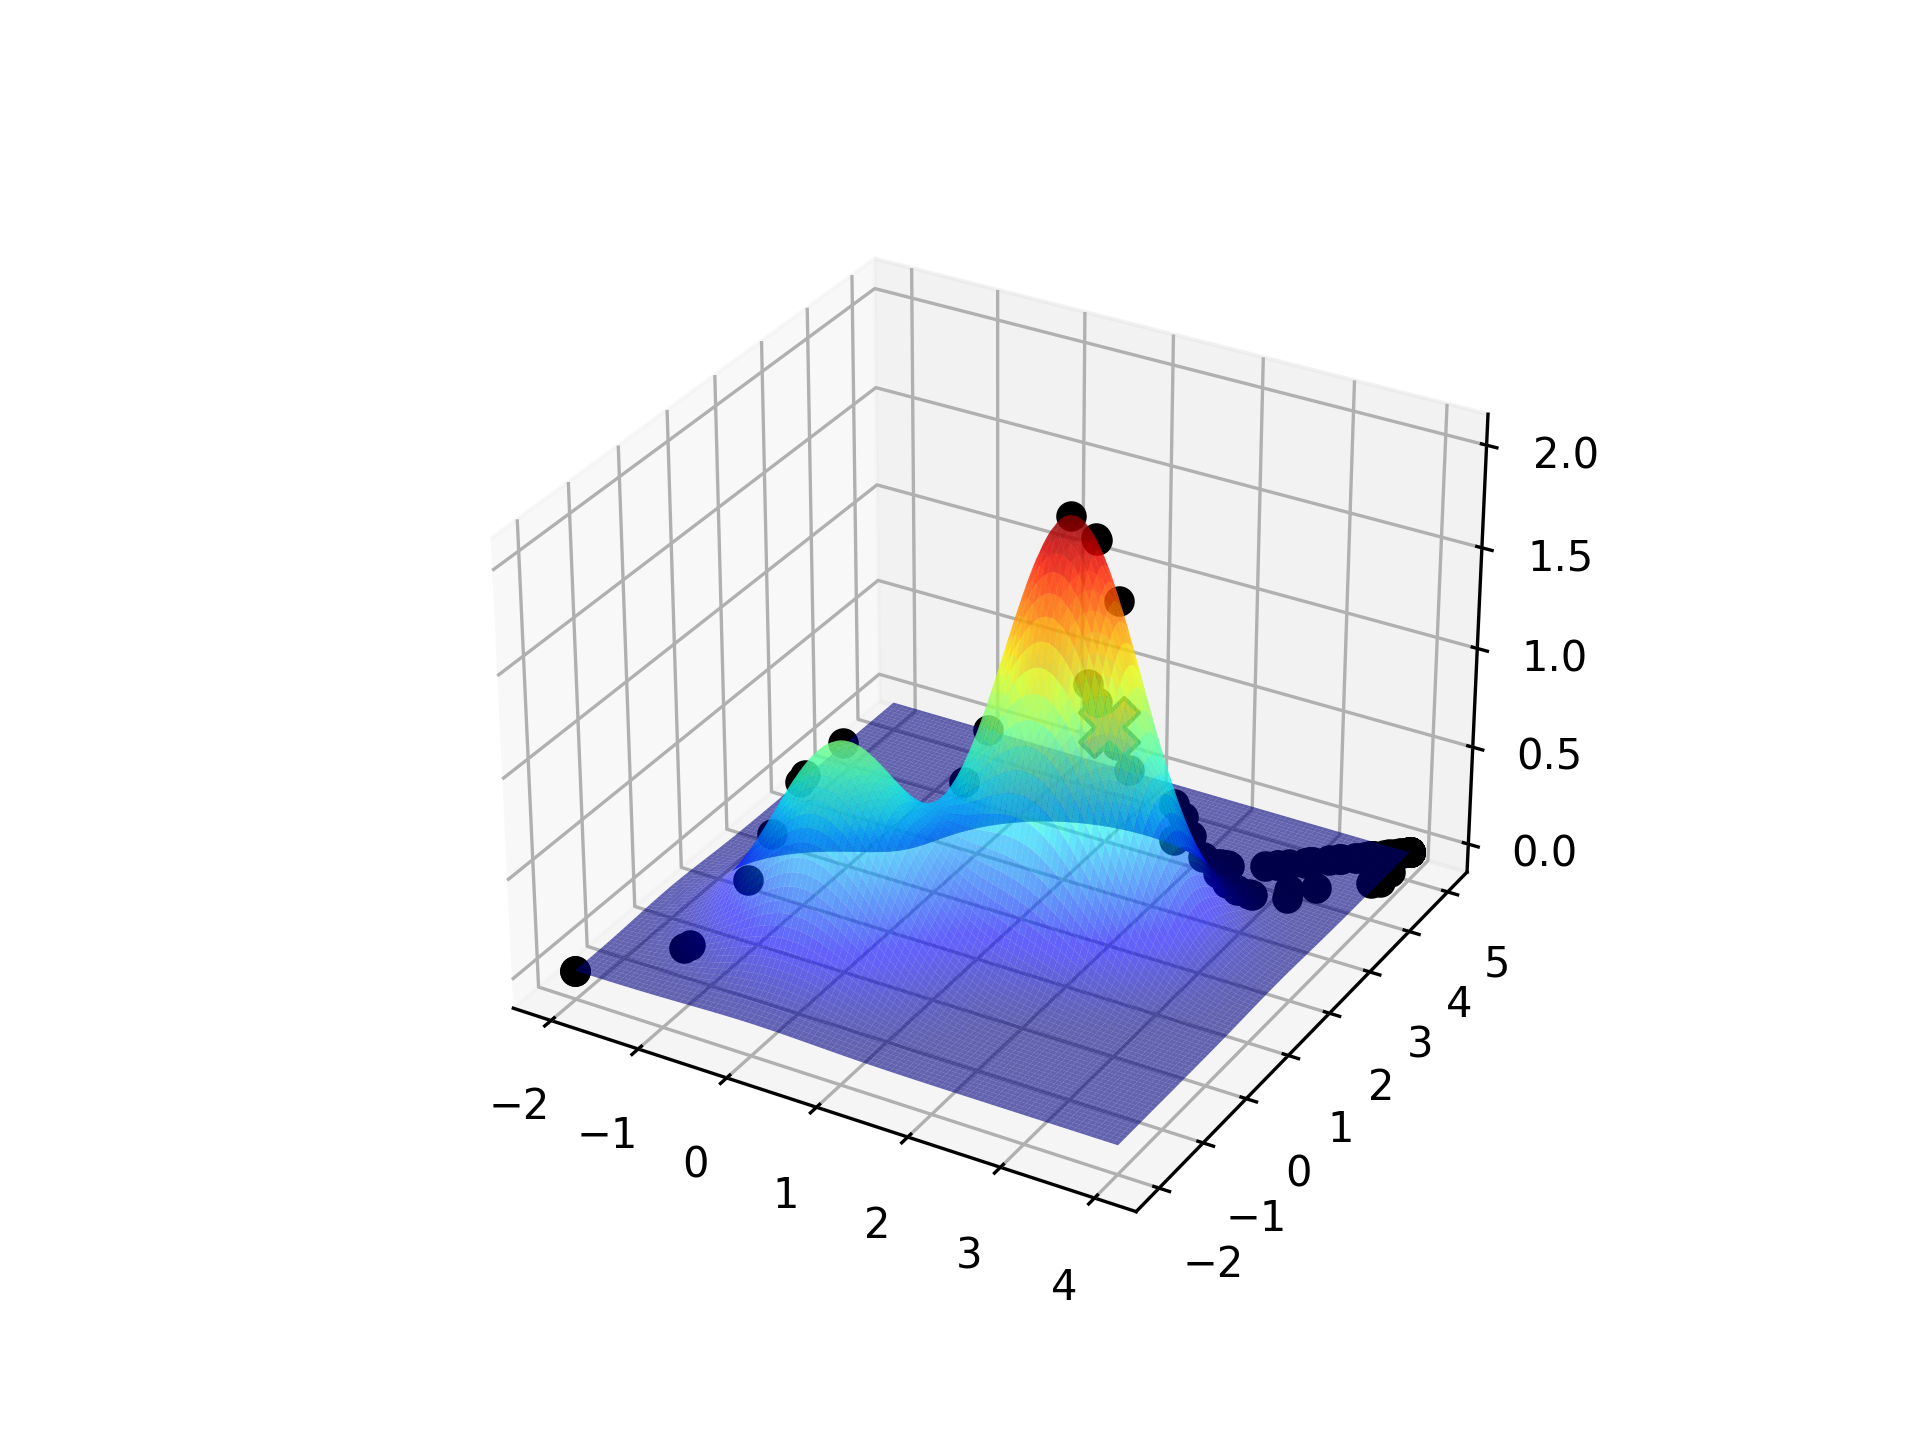
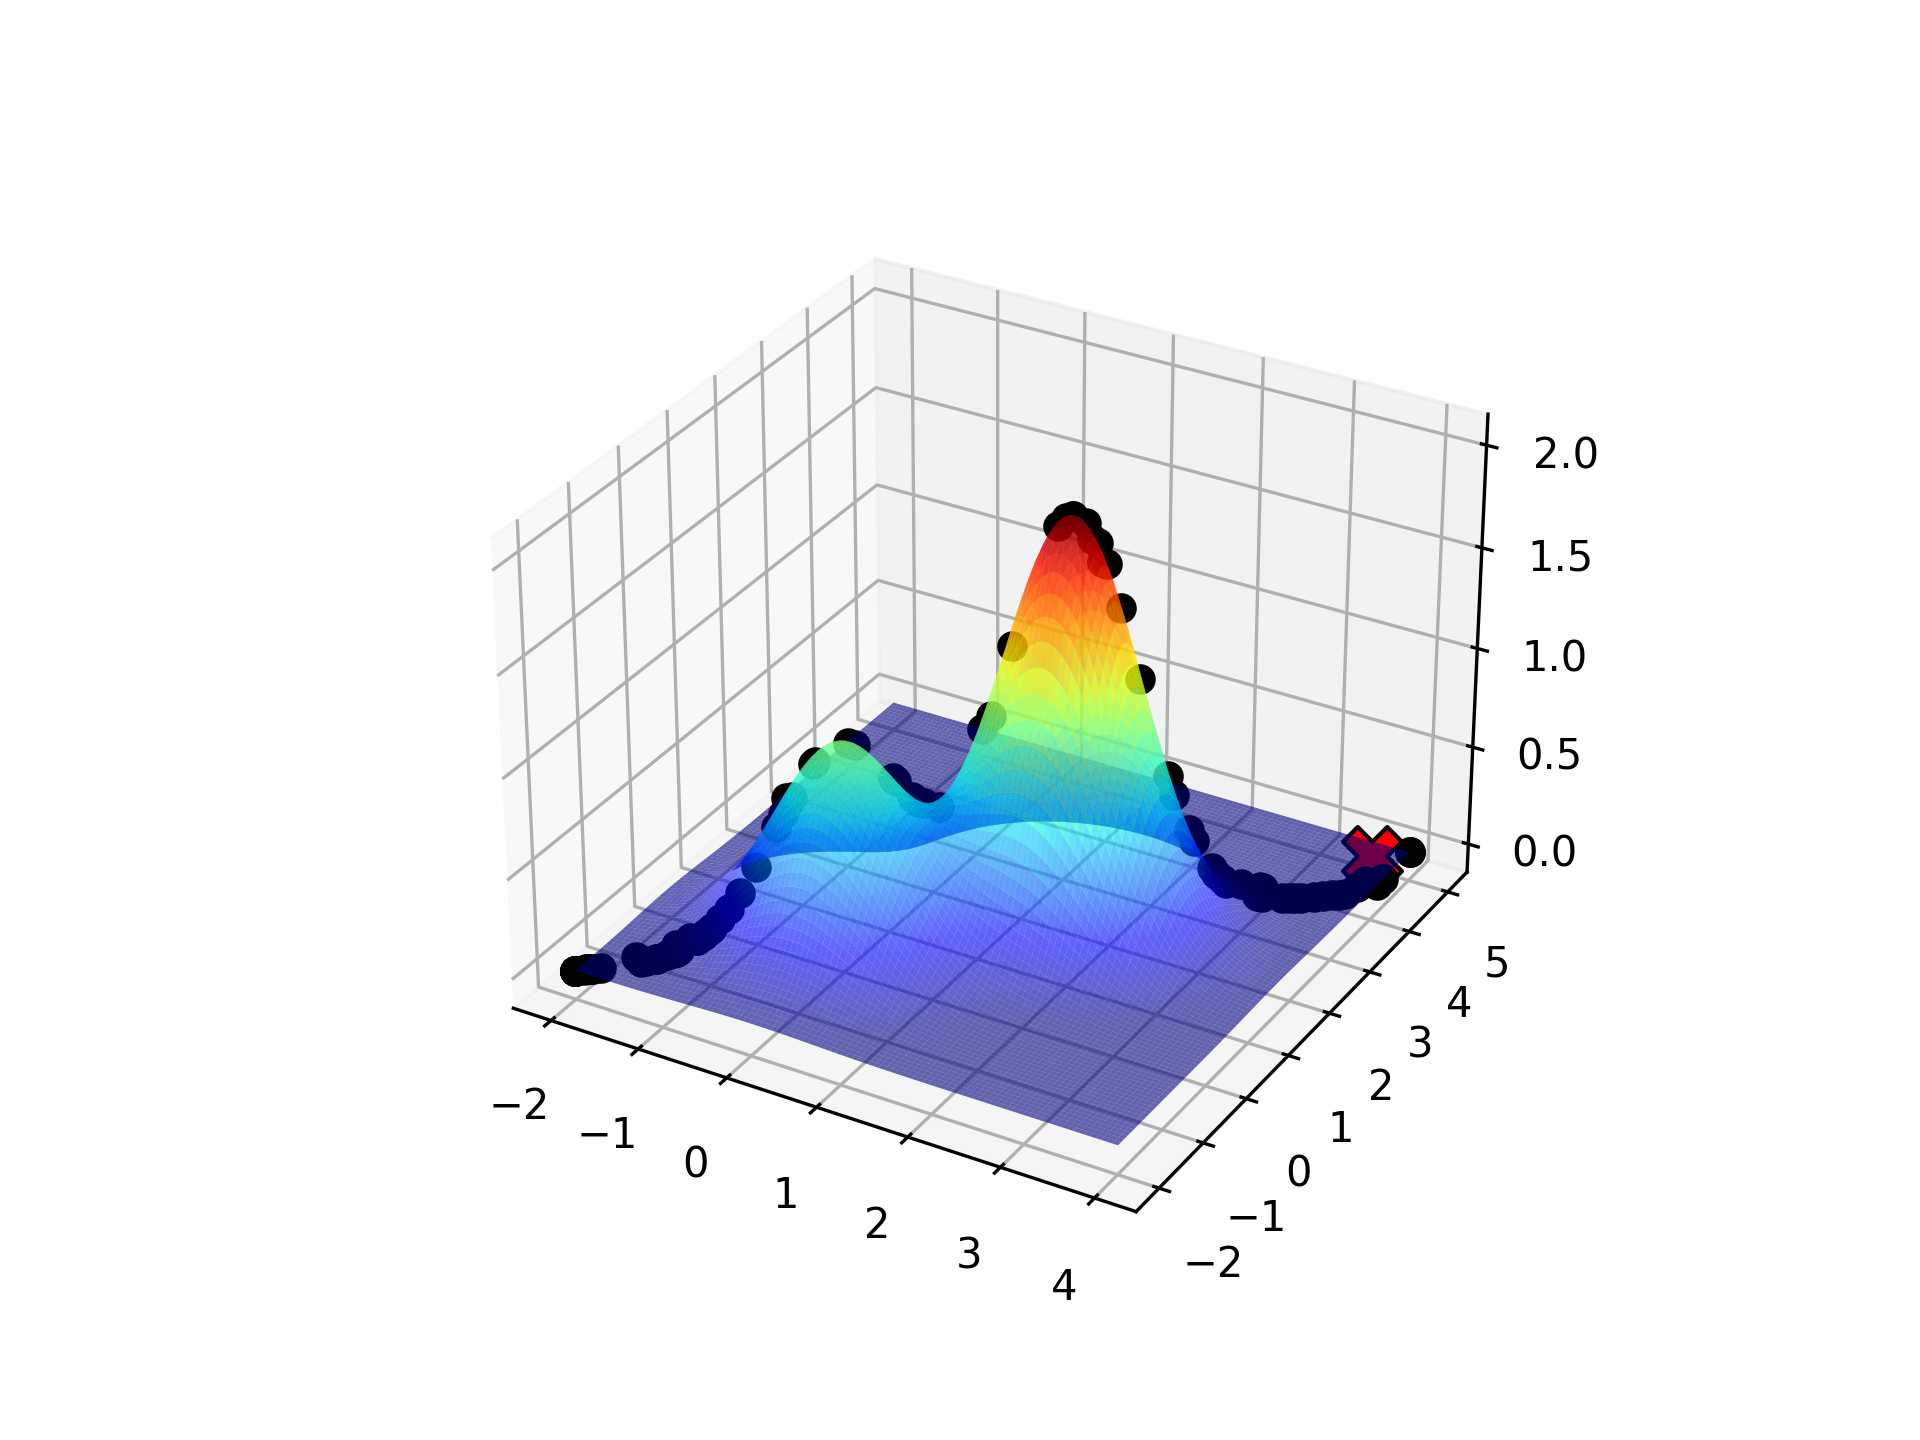
Ajustes

diff --git a/src/tc3/parte_um/functions.py b/src/tc3/parte_um/functions.py
@@ -48,7 +48,6 @@ def f_8(x, y):
 LISTA_FUNCOES = [
     # Função 1 do TC3
     {
-        "current": True,
         "funcao": f_1,
         "max": False,
         "x_bound": {
@@ -69,7 +68,7 @@ LISTA_FUNCOES = [
             "sigma": 5.0,
         },
         "hiper_p_grs": {
-            "max_it": 100,
+            "max_it": 1000,
         },
         "hiper_p_tempera": {
             "max_it": 1000,
@@ -79,6 +78,7 @@ LISTA_FUNCOES = [
     },
     # Função 2 do TC3
     {
+        "current": True,
         "funcao": f_2,
         "max": True,
         "x_bound": {
@@ -99,7 +99,7 @@ LISTA_FUNCOES = [
             "sigma": 0.8,
         },
         "hiper_p_grs": {
-            "max_it": 100,
+            "max_it": 1000,
         },
         "hiper_p_tempera": {
             "max_it": 100,
@@ -129,7 +129,7 @@ LISTA_FUNCOES = [
             "sigma": 0.01,
         },
         "hiper_p_grs": {
-            "max_it": 100,
+            "max_it": 1000,
         },
         "hiper_p_tempera": {
             "max_it": 100,
@@ -159,7 +159,7 @@ LISTA_FUNCOES = [
             "sigma": 0.01,
         },
         "hiper_p_grs": {
-            "max_it": 100,
+            "max_it": 1000,
         },
         "hiper_p_tempera": {
             "max_it": 100,
@@ -189,7 +189,7 @@ LISTA_FUNCOES = [
             "sigma": 0.01,
         },
         "hiper_p_grs": {
-            "max_it": 100,
+            "max_it": 1000,
         },
         "hiper_p_tempera": {
             "max_it": 100,
@@ -219,7 +219,7 @@ LISTA_FUNCOES = [
             "sigma": 0.01,
         },
         "hiper_p_grs": {
-            "max_it": 100,
+            "max_it": 1000,
         },
         "hiper_p_tempera": {
             "max_it": 100,
@@ -249,7 +249,7 @@ LISTA_FUNCOES = [
             "sigma": 0.01,
         },
         "hiper_p_grs": {
-            "max_it": 100,
+            "max_it": 1000,
         },
         "hiper_p_tempera": {
             "max_it": 100,
@@ -279,7 +279,7 @@ LISTA_FUNCOES = [
             "sigma": 0.01,
         },
         "hiper_p_grs": {
-            "max_it": 100,
+            "max_it": 1000,
         },
         "hiper_p_tempera": {
             "max_it": 100,

diff --git a/src/tc3/parte_um/main.py b/src/tc3/parte_um/main.py
@@ -10,7 +10,7 @@ from algorithms import (
 from functions import LISTA_FUNCOES
 
 
-executar_todas_funcoes = True
+executar_todas_funcoes = False
 
 
 for i, f_dict in enumerate(LISTA_FUNCOES):
@@ -26,7 +26,7 @@ for i, f_dict in enumerate(LISTA_FUNCOES):
     hiper_p_lrs = f_dict["hiper_p_lrs"]
     hiper_p_grs = f_dict["hiper_p_grs"]
 
-    if f is None or not current:
+    if not current:
         continue
 
     x_axis = np.linspace(x_bound["lb"], x_bound["ub"], 2000)
